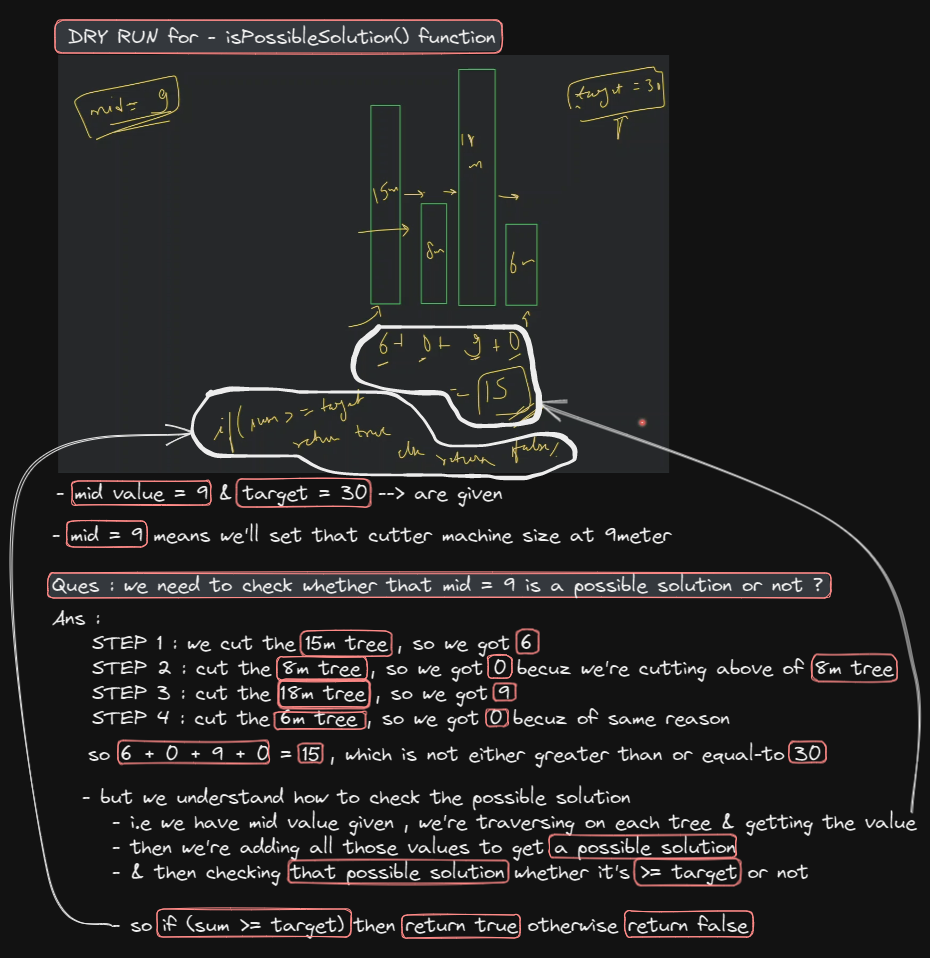
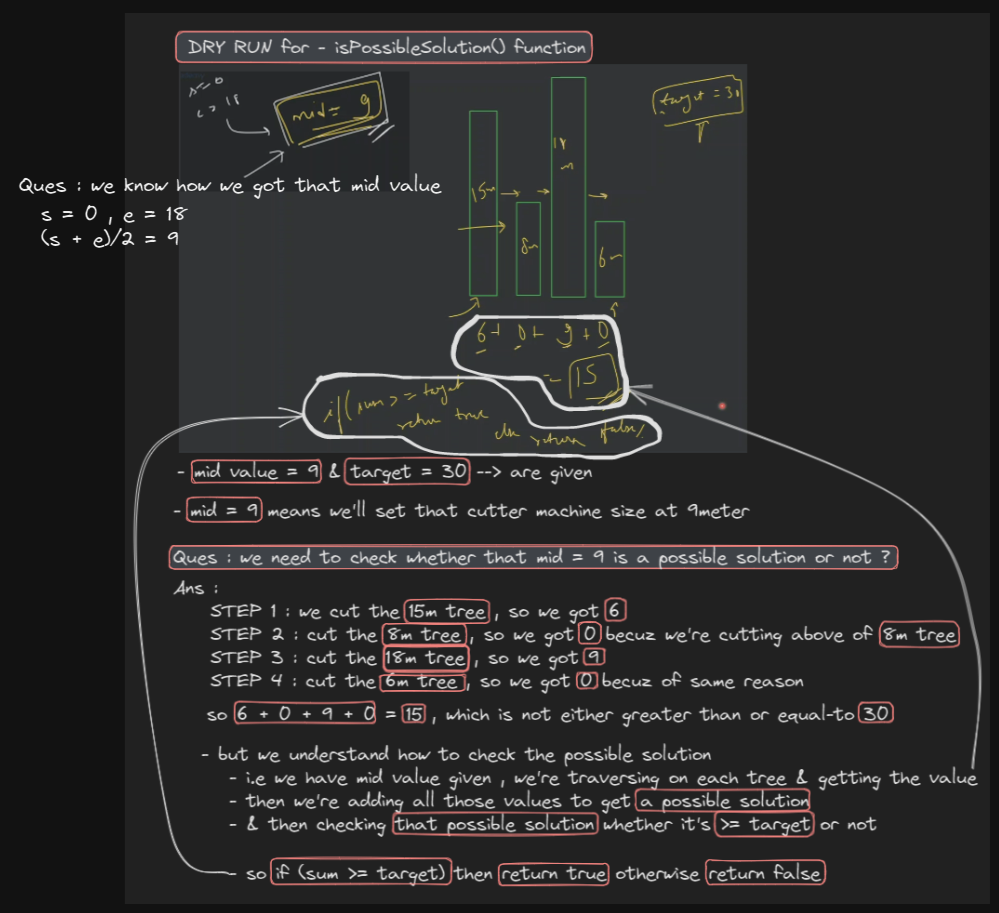
add

diff --git a/Python-DSA-notes/notes/05-binary-search-algo/16-3-binary-search-problems.md b/Python-DSA-notes/notes/05-binary-search-algo/16-3-binary-search-problems.md
@@ -66,25 +66,107 @@
                 - if you have confusion in left & right then see this 💡
                     ![confusion in right & left approach](../../notes-pics/16-3-lecture/love-babbar/lecture-16-3-7.png) 
             - working only on isPossibleSolution() function
-                ```
+                ```cpp
                 bool isPossibleSolution(int mid, int arr[], int target) {
-                    sum = 0 ; --> this variable will calculate the sum
-                    for (i -> 0 -> < n) {
-                        int difference = 0;
-                        if (arr[i] > mid) ---> means if the size of a tree is bigger than the size of our cutter machine
-                                                then we'll find the difference means do subtraction 💡💡💡 
+                    sum = 0 ; // --> this variable will calculate the sum
+                    for (i -> 0 -> < n) { // --> here we're traversing on each tree
+                        int difference = 0; // --> by-default we're set the difference as 0
+                        if (arr[i] > mid) // ---> means if the size of a tree is bigger than the size of our cutter machine
+                                            // then we'll find the difference means do subtraction 💡💡💡 
+                                            // means we'll cut them & get the difference like 6 , 0 , 9 & then 0 getting in the example
                             difference = arr[i] - mid ;
-                        sum = sum + difference ;
+
+                        sum = sum + difference ; // --> here we're adding all those differences which we're getting 
+                                                    // like this 6 + 0 + 9 + 0 = 15
                     }
 
-                    -- here we're doing comparison
+                    // -- here we're doing comparison
                     if (sum >= target)
                         return true
                     else 
                         return false
                 }
                 ```
+                ![DRY RUN of isPossibleSolution() function](../../notes-pics/16-3-lecture/love-babbar/lecture-16-3-8.png) 
+                - & we're showing the size/height of the cutter machine through that `mid` value 💡💡💡 
+    - code
+        ```cpp
+        #include <iostream>
+        #include <algorithm>
+        using namespace std;
 
+        // here we took as bool -> for this function
+            // because we're calling this function inside -> if statement
+        bool isPossibleSolution(int mid, int arr[], int n, int target) {
+            
+            int sum = 0;
+            for (int i=0; i<n; i++) {
+                int diff = 0;
+
+                if (arr[i] > mid) 
+                    diff = arr[i] - mid;
+
+                sum = sum + diff ;
+            }
+
+            if (sum >= target) 
+                return true ;
+            else 
+                return false;
+        }
+
+        int getMaxHeightOfSaw(int arr[], int n, int target) {
+            sort(arr, arr + n) ;
+                // why we're sorting because while doing DRY RUN , love babbar didn't told about this ✅
+                // so we're sorting because you'll say that we did becuz we're using binary search
+                    // which is not , because the search space is already sorted
+                    // What Love Babbar told earlier that binary search algo will be applied 
+                        // on monotonic function (means either increasing or decreasing)
+                    // & we're applying binary search algo on 0 to 18
+                        // don't you think that 0 to 18 is already sorted or not ?
+                        // so Yes , because 0 to 18 is a counting which is already sorted
+                    // so we're not applying binary search algo on height of all the trees 
+                        // we're applying it on 0 to 18 counting 💡💡💡
+                    // but why we did sorting ? 
+                        // because to get the last element as ending element that's it 
+
+            int s = 0 ;
+            int e = arr[n-1] ;
+
+            int ans = -1;
+
+            while(s <= e){
+                int mid = s + (e-s)/2;
+
+                if (isPossibleSolution(mid, arr, n, target)) {
+                    // store ans
+                    ans = mid ;
+                    // move to right
+                    s = mid + 1;
+                } else {
+                    // move to left
+                    e = mid - 1;
+                }
+            }
+            
+            return ans;
+        }
+
+        int main() {
+            int arr[] = {15, 8, 18, 6};
+            int target = 30 ;
+
+            cout << getMaxHeightOfSaw(arr, 4, target) << endl ;
+
+            int ans = getMaxHeightOfSaw(arr, 4, target);
+            cout << "Answer is " << ans << endl ;
+
+            return 0;
+        }
+
+        // output : Answer is 4
+        ```
+    - DRY RUN of code
 
 - advice 👍
     - do DRY RUN on pen & paper to understand that problem clearly 
